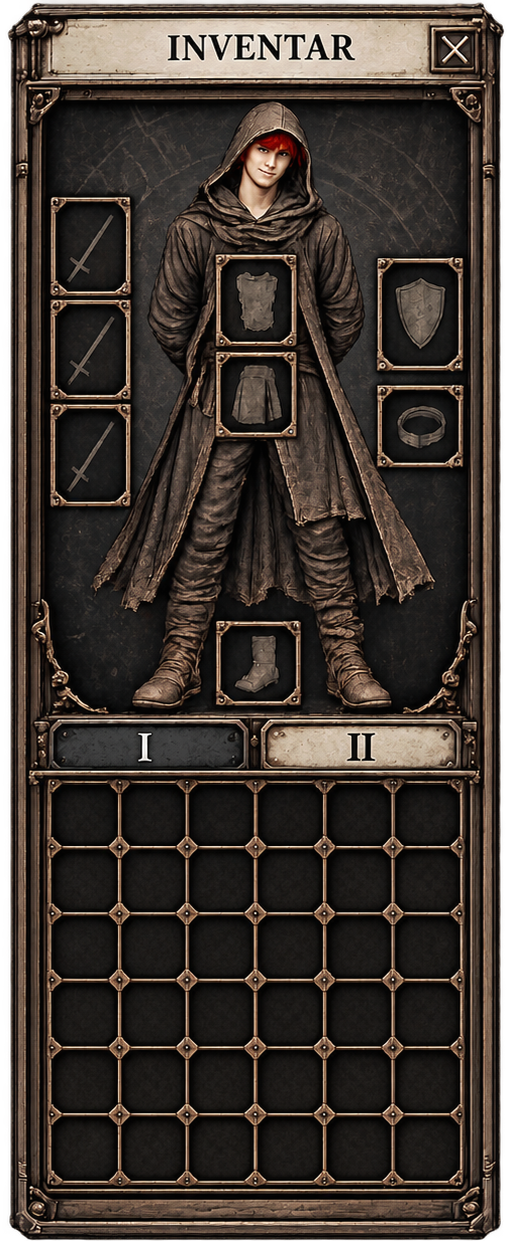
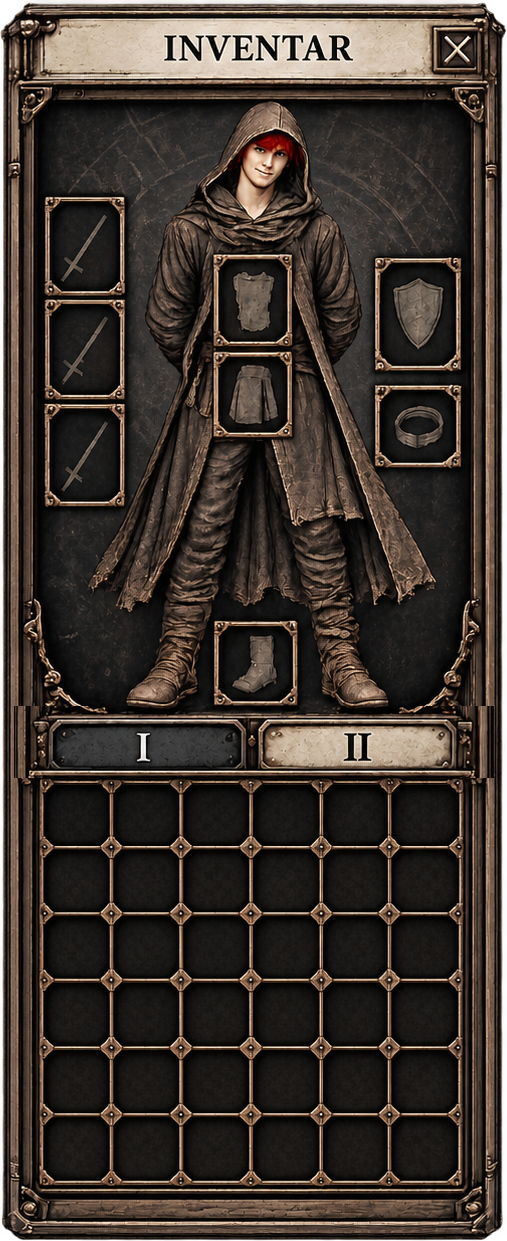
Add files via upload

diff --git a/game.js b/game.js
@@ -7205,30 +7205,16 @@
         transform: translateY(-1px);
       }
 
-      .inventory-hotspot--page-1::after {
-        content: "I";
-        font-family: Georgia, "Times New Roman", serif;
-        font-size: 39px;
-        font-weight: 500;
-      }
-
+      .inventory-hotspot--page-1::after,
       .inventory-hotspot--page-2::after {
-        content: "II";
-        font-family: Georgia, "Times New Roman", serif;
-        font-size: 39px;
-        font-weight: 500;
-        letter-spacing: 2px;
+        content: none;
+        display: none;
       }
 
-      .inventory-hotspot:hover::after,
-      .inventory-hotspot:focus-visible::after {
+
+      .inventory-hotspot--close:hover::after,
+      .inventory-hotspot--close:focus-visible::after {
         opacity: .82;
-      }
-
-      /* Active tab is already painted bright in the supplied artwork.
-         Do not paint an extra hover glyph over the active Roman numeral. */
-      .inventory-hotspot[aria-current="page"]::after {
-        opacity: 0 !important;
       }
 
       .inventory-slots-layer {
